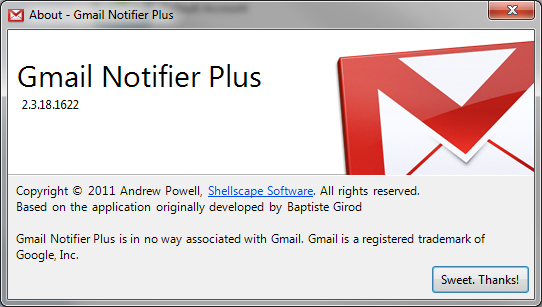
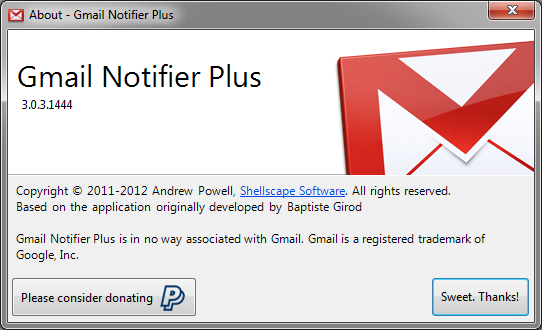
updating the about dialog and adding donate button

Changed region(s): [[0.0, 0.0, 1.0, 1.0]]

diff --git a/Application/Forms/About.cs b/Application/Forms/About.cs
@@ -21,7 +21,6 @@ using Shellscape;
 namespace GmailNotifierPlus.Forms {
 	public partial class About : Shellscape.UI.About {
 
-		private AnimatedCursor _animatedCursor;
 		private Bitmap _upToDate;
 		private Bitmap _exclamation;
 		private Bitmap _download;
@@ -46,8 +45,9 @@ namespace GmailNotifierPlus.Forms {
 
 			toYear = toYear == "2011" ? String.Empty : String.Concat("-", toYear);
 
-			this._Button.Font = SystemFonts.MessageBoxFont;
+			this._Button.Font = this._ButtonDonate.Font = SystemFonts.MessageBoxFont;
 			this._Button.Text = Localization.Locale.Current.About.Button;
+			this._ButtonDonate.Text = Localization.Locale.Current.About.Donate;
 			this._LabelCopyright.Text = String.Join("\n",
 				String.Concat("Copyright © 2011", toYear, " Andrew Powell, ", linkTarget, ". All rights reserved."),
 				"Based on the application originally developed by Baptiste Girod\n",
@@ -75,26 +75,13 @@ namespace GmailNotifierPlus.Forms {
 
 		}
 
+		protected override string DonationDescription {
+			get { return "Gmail%20Notifier%20Plus%20Donation"; }
+		}
+
 		protected override void OnPaintIcon(Graphics g) {
 			g.DrawImage(this._icon, 326, 7, this._icon.Width, this._icon.Height);
 		}
 
-		//private void _PanelUpdate_Paint(object sender, PaintEventArgs e) {
-
-		//  UpdateManager.UpdateStatus status = UpdateManager.Current.Status;
-
-		//  if(status == UpdateManager.UpdateStatus.Checking) {
-		//    _animatedCursor.DrawStep(e.Graphics, -4, -4);
-		//  }
-		//  else if(status == UpdateManager.UpdateStatus.Problem) {
-		//    e.Graphics.DrawImage(_exclamation, 4, 4, _exclamation.Width, _exclamation.Height);
-		//  }
-		//  else if(status == UpdateManager.UpdateStatus.UpToDate) {
-		//    e.Graphics.DrawImage(_upToDate, 4, 4, _upToDate.Width, _upToDate.Height);
-		//  }
-		//  else if(status == UpdateManager.UpdateStatus.NewVersion) {
-		//    e.Graphics.DrawImage(_download, 4, 4, _upToDate.Width, _upToDate.Height);
-		//  }
-		//}
 	}
 }

diff --git a/Application/Forms/About.Designer.cs b/Application/Forms/About.Designer.cs
@@ -36,7 +36,11 @@ namespace GmailNotifierPlus.Forms {
 			// 
 			// _Button
 			// 
-			this._Button.Location = new System.Drawing.Point(435, 243);
+			this._Button.Location = new System.Drawing.Point(435, 247);
+			// 
+			// _ButtonDonate
+			// 
+			this._ButtonDonate.Location = new System.Drawing.Point(3, 247);
 			// 
 			// _Flow
 			// 
@@ -73,12 +77,14 @@ namespace GmailNotifierPlus.Forms {
 			this.AutoScaleDimensions = new System.Drawing.SizeF(7F, 15F);
 			this.AutoScaleMode = System.Windows.Forms.AutoScaleMode.Font;
 			this.BackColor = System.Drawing.SystemColors.Window;
-			this.ClientSize = new System.Drawing.Size(526, 276);
+			this.ClientSize = new System.Drawing.Size(526, 292);
 			this.Controls.Add(this._Flow);
 			this.Name = "About";
 			this.StartPosition = System.Windows.Forms.FormStartPosition.CenterScreen;
-			this.Controls.SetChildIndex(this._Flow, 0);
+			this.TopMost = false;
+			this.Controls.SetChildIndex(this._ButtonDonate, 0);
 			this.Controls.SetChildIndex(this._Button, 0);
+			this.Controls.SetChildIndex(this._Flow, 0);
 			this._Flow.ResumeLayout(false);
 			this._Flow.PerformLayout();
 			this.ResumeLayout(false);
